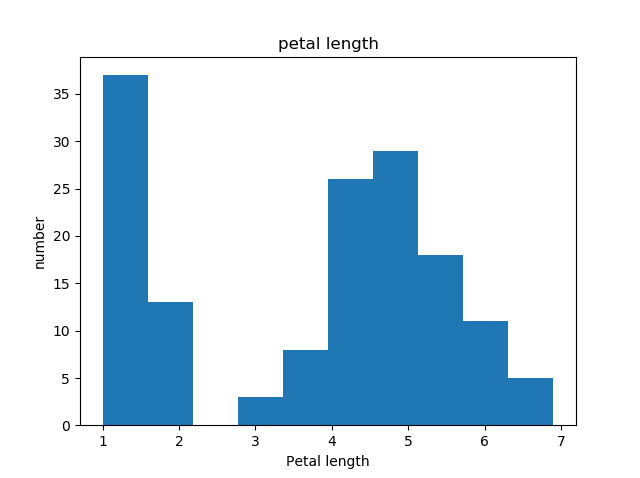
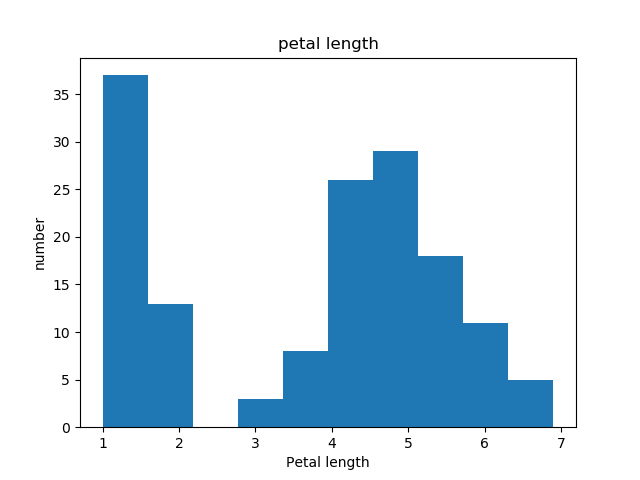
Bug fix and reupload histograms and scatter plots

diff --git a/analysis.py b/analysis.py
@@ -19,6 +19,7 @@ plt.title("Sepal length")
 plt.xlabel("Sepal length")
 plt.ylabel("number")
 plt.savefig("Fig 1. Sepal length.png")
+plt.clf()
 
 # Create histogram for Sepal Width. Add title, x label, y label and save 
 plt.hist(df["sepal_width"])
@@ -26,6 +27,7 @@ plt.xlabel("Sepal width")
 plt.ylabel("number")
 plt.title("Sepal width")
 plt.savefig("Fig 2. Sepal width.png")
+plt.clf()
 
 # Create histogram for Petal Length. Add title, x label, y label and save 
 plt.hist(df["petal_length"])
@@ -33,6 +35,7 @@ plt.title("petal length")
 plt.ylabel("number")
 plt.xlabel("Petal length")
 plt.savefig("Fig 3. Petal length.png")
+plt.clf()
 
 # Create histogram for Petal width. Add title, x label, y label and save 
 plt.hist(df["petal_width"])
@@ -40,6 +43,7 @@ plt.ylabel("number")
 plt.xlabel("Petal width")
 plt.title("Petal width")
 plt.savefig("Fig 4. Petal width.png")
+plt.clf()
 
 # Create scatter plot of sepal length against sepal width. Add title, xlabel, ylabel and save
 plt.plot(df["sepal_length"], df["sepal_width"],'b.')
@@ -47,27 +51,7 @@ plt.title("sepal length vs sepal width (cm)")
 plt.ylabel("sepal width (cm)")
 plt.xlabel("sepal length (cm)")
 plt.savefig("Fig 5. Sepal length vs sepal width.png")
-
-# Create scatter plot of petal length against petal width. Add title, xlabel, ylabel and save
-plt.plot(df["petal_length"], df["petal_width"],'b.')
-plt.xlabel("petal length (cm)")
-plt.ylabel("petal width (cm)")
-plt.title("petal length vs petal width (cm)")
-plt.savefig("Fig 6. Petal length vs petal width.png")
-
-# Create scatter plot of sepal length against petal length. Add title, xlabel, ylabel and save
-plt.plot(df["sepal_length"], df["petal_length"],'b.')
-plt.title("Sepal length vs petal length (cm)")
-plt.xlabel("sepal length (cm)")
-plt.ylabel("petal length (cm)")
-plt.savefig("Fig 7. Sepal length vs petal length.png")
-
-# Create scatter plot of sepal width against petal width. Add title, xlabel, ylabel and save
-plt.plot(df["sepal_width"], df["petal_width"],'b.')
-plt.title("Sepal width vs petal width (cm)")
-plt.ylabel("petal width (cm)")
-plt.xlabel("sepal width (cm)")
-plt.savefig("Fig 8. Sepal width vs petal width.png")
+plt.clf()
 
 # Create scatter plot of sepal length against sepal width by the 3 different species. Add title, legend, xlabel, ylabel and save
 plt.plot(iris_setosa["sepal_length"],iris_setosa["sepal_width"],'r.',label = 'Iris Setosa')
@@ -78,6 +62,15 @@ plt.xlabel("Sepal length (cm)")
 plt.ylabel("Sepal width (cm)")
 plt.title("Sepal length vs sepal width comparison by species type")
 plt.savefig("Fig 5.5 Sepal length vs sepal width by species.png")
+plt.clf()
+
+# Create scatter plot of petal length against petal width. Add title, xlabel, ylabel and save
+plt.plot(df["petal_length"], df["petal_width"],'b.')
+plt.xlabel("petal length (cm)")
+plt.ylabel("petal width (cm)")
+plt.title("petal length vs petal width (cm)")
+plt.savefig("Fig 6. Petal length vs petal width.png")
+plt.clf()
 
 # Create scatter plot of petal length against petal width by the 3 different species. Add title, legend, xlabel, ylabel and save
 plt.plot(iris_setosa["petal_length"], iris_setosa["petal_width"],'r.', label = 'Iris setosa')
@@ -87,7 +80,16 @@ plt.legend()
 plt.xlabel("petal length (cm)")
 plt.ylabel("petal width (cm)")
 plt.title("Petal length vs Petal width comparison by species type")
-plt.savefig("Fig 6.5 Petal length vs petal width by species")
+plt.savefig("Fig 6.5 Petal length vs petal width by species.png")
+plt.clf()
+
+# Create scatter plot of sepal length against petal length. Add title, xlabel, ylabel and save
+plt.plot(df["sepal_length"], df["petal_length"],'b.')
+plt.title("Sepal length vs petal length (cm)")
+plt.xlabel("sepal length (cm)")
+plt.ylabel("petal length (cm)")
+plt.savefig("Fig 7. Sepal length vs petal length.png")
+plt.clf()
 
 # Create scatter plot of sepal length against petal length by the 3 different species. Add title, legend, xlabel, ylabel and save
 plt.plot(iris_setosa["sepal_length"], iris_setosa["petal_length"],'r.', label = 'Iris setosa')
@@ -98,6 +100,15 @@ plt.xlabel("sepal length (cm)")
 plt.ylabel("petal length (cm)")
 plt.legend()
 plt.savefig("Fig 7.5 Sepal length vs petal length by species.png")
+plt.clf()
+
+# Create scatter plot of sepal width against petal width. Add title, xlabel, ylabel and save
+plt.plot(df["sepal_width"], df["petal_width"],'b.')
+plt.title("Sepal width vs petal width (cm)")
+plt.ylabel("petal width (cm)")
+plt.xlabel("sepal width (cm)")
+plt.savefig("Fig 8. Sepal width vs petal width.png")
+plt.clf()
 
 # Create scatter plot of sepal width against petal width by the 3 different species. Add title, legend, xlabel, ylabel and save
 plt.plot(iris_setosa["sepal_width"], iris_setosa["petal_width"],'r.', label = 'Iris setosa')
@@ -108,6 +119,8 @@ plt.title("Sepal width vs Petal width comparison by species type")
 plt.ylabel("petal width (cm)")
 plt.xlabel("sepal width (cm)")
 plt.savefig("Fig 8.5 Sepal width vs petal width by species.png")
+plt.clf()
+
 
 
 
